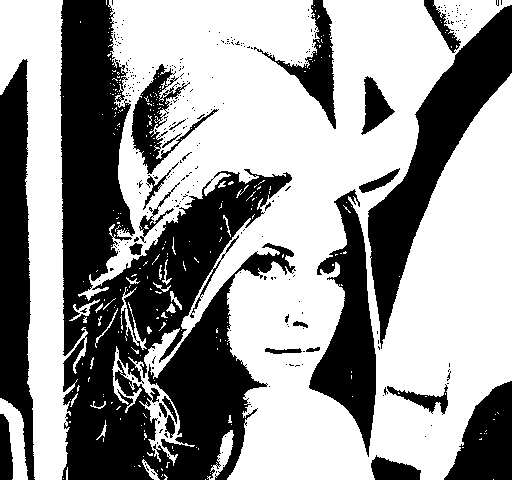
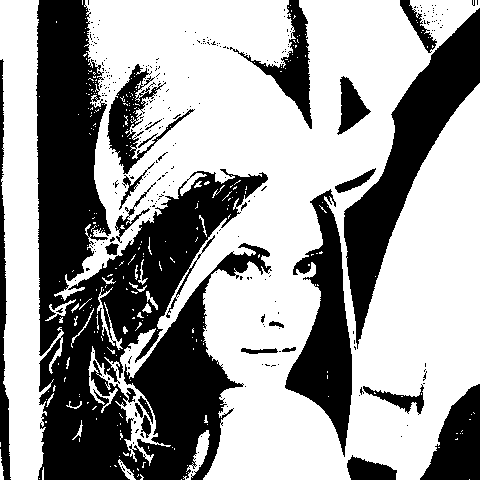
多分これで良い

diff --git a/gabor_filter.py b/gabor_filter.py
@@ -7,17 +7,11 @@ import PIL.Image as Image
 
 class GaborFilter(object):
 
-    def __init__(self, wavelength, theta, gamma=2, a=0.5, constrain=False):
-
-        print("create instance")
+    def __init__(self, wavelength, theta, gamma=2, a=0.5):
 
         # Compute appropriate pixel dimensions for longest axis
         eta = -0.5 / (a * wavelength) ** 2
-        if(constrain):
-            size = wavelength
-        else:
-            size = 1 + 2 * \
-                int(ceil(sqrt(log(0.05) * max(1, gamma ** 2) / eta)))
+        size = 1 + 2 * int(ceil(sqrt(log(0.05) * max(1, gamma ** 2) / eta)))
 
         # Initialize mask dimensions
         self.mask = np.zeros((size, size), 'float32')
@@ -37,16 +31,17 @@ class GaborFilter(object):
         self.mask /= sqrt((self.mask * self.mask).sum())
 
     def convolve(self, image):
+        print("convert image")
         return abs(convolve2d(image, self.mask, mode='same'))
 
     def show(self):
+        print("wave show call")
         #        toimage(self.mask).show()
         toimage(self.mask).save("./wave.png")
-        print("wave show call")
 
 
 if __name__ == '__main__':
-    gf = GaborFilter(10, 0)
+    gf = GaborFilter(5, 180)
 
     pic = Image.open("./srcimg50.png")
     pix = np.asarray(pic)
@@ -55,6 +50,5 @@ if __name__ == '__main__':
     convimg = Image.fromarray(convarr)
     convimg.convert('RGB').save('convimg.png')
 
-    print(convimg)
     gf.show()
     print("end")
